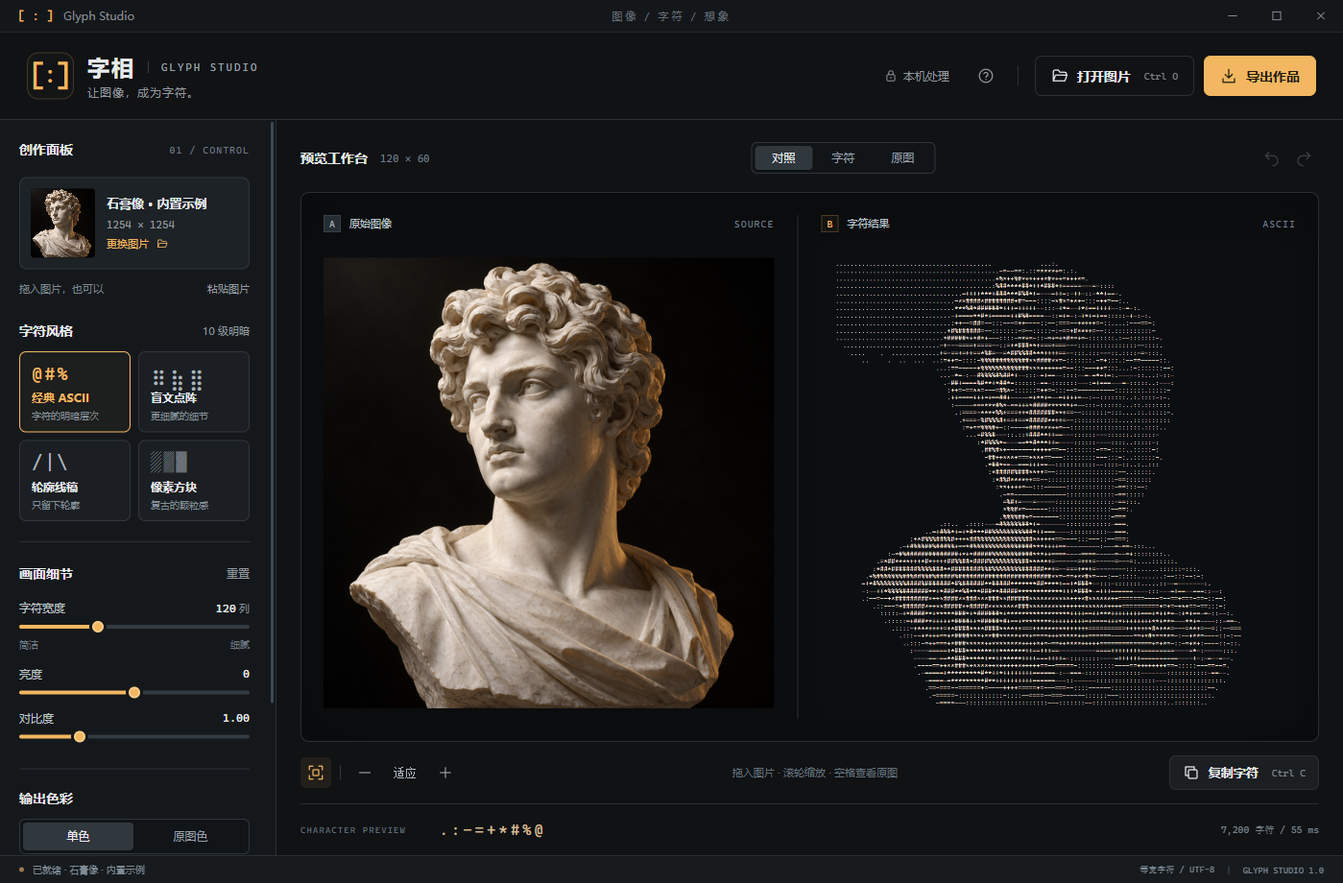
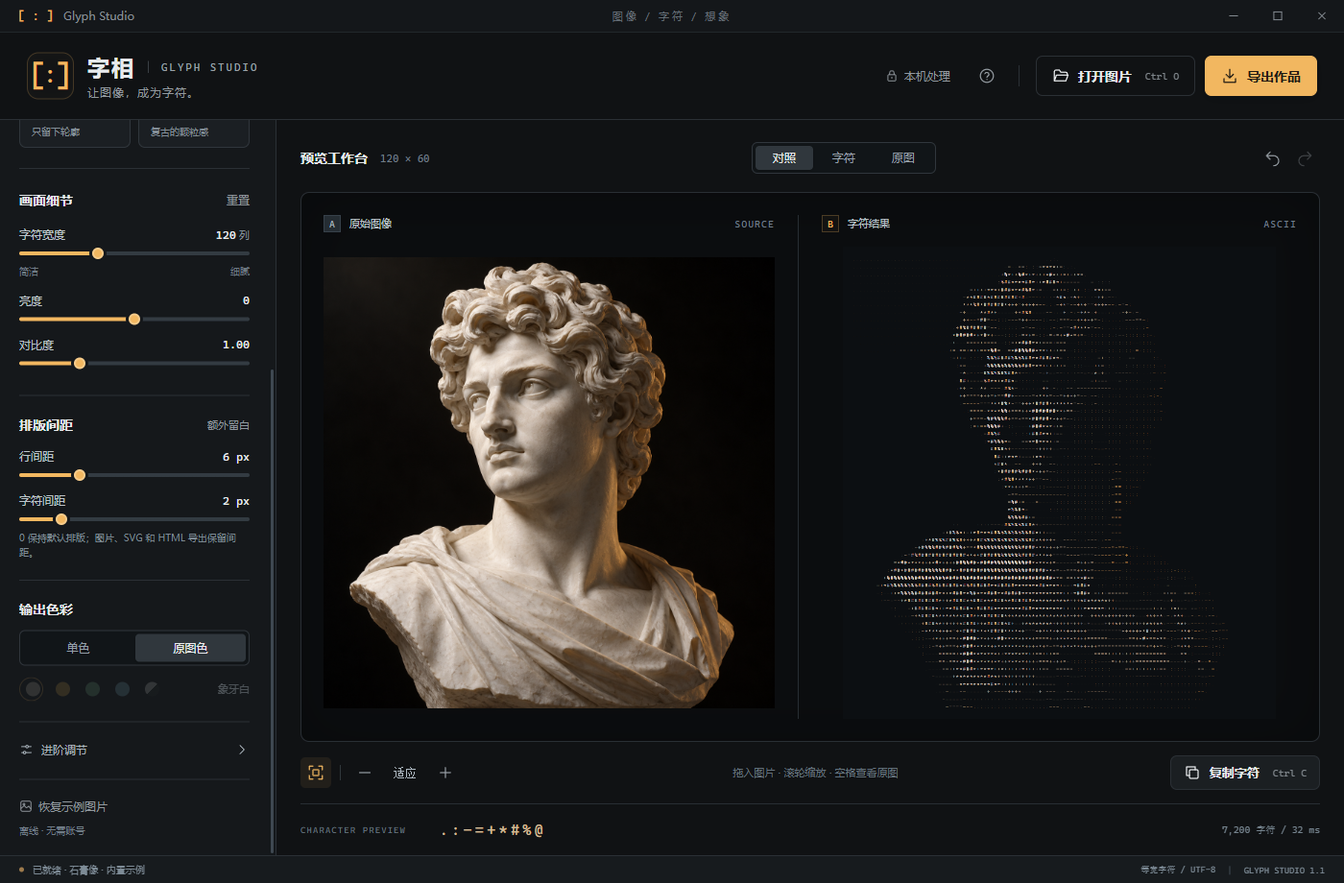
新增排版间距
[skip ci]

diff --git a/src/app.js b/src/app.js
@@ -1,7 +1,7 @@
 (function () {
   'use strict';
   const $ = id => document.getElementById(id);
-  const defaults = { mode: 'ascii', columns: 120, brightness: 0, contrast: 1, gamma: 1, threshold: 0.5, autoContrast: true, dither: false, invert: false, ramp: ' .:-=+*#%@', color: 'mono', palette: 'ivory' };
+  const defaults = { mode: 'ascii', columns: 120, brightness: 0, contrast: 1, gamma: 1, threshold: 0.5, lineSpacing: 0, characterSpacing: 0, autoContrast: true, dither: false, invert: false, ramp: ' .:-=+*#%@', color: 'mono', palette: 'ivory' };
   const modeNames = { ascii: ['经典 ASCII', 'ASCII', '10 级明暗'], braille: ['盲文点阵', 'BRAILLE', '每格 8 个点'], edges: ['轮廓线稿', 'CONTOUR', '方向边缘'], blocks: ['像素方块', 'BLOCKS', '5 级像素'] };
   let settings = { ...defaults };
   try {
@@ -13,6 +13,8 @@
       settings.contrast = Math.max(0.5, Math.min(2.5, settings.contrast));
       settings.gamma = Math.max(0.4, Math.min(2.4, settings.gamma));
       settings.threshold = Math.max(0.1, Math.min(0.9, settings.threshold));
+      settings.lineSpacing = Math.max(0, Math.min(24, Math.round(settings.lineSpacing)));
+      settings.characterSpacing = Math.max(0, Math.min(12, Math.round(settings.characterSpacing)));
       AsciiCore.convert({ width: 1, height: 1, data: new Uint8ClampedArray([0, 0, 0, 255]) }, { ramp: settings.ramp });
     }
   } catch { settings = { ...defaults }; }
@@ -78,7 +80,7 @@
     scheduleRender(0);
   }
   function updateControls() {
-    for (const id of ['columns', 'brightness', 'contrast', 'gamma', 'threshold']) {
+    for (const id of ['columns', 'brightness', 'contrast', 'gamma', 'threshold', 'lineSpacing', 'characterSpacing']) {
       $(id).value = settings[id];
       updateRange(id);
     }
@@ -102,7 +104,7 @@
     const input = $(id);
     const value = Number(input.value);
     input.style.setProperty('--fill', `${(value - Number(input.min)) / (Number(input.max) - Number(input.min)) * 100}%`);
-    $(`${id}-out`).textContent = ['contrast', 'gamma', 'threshold'].includes(id) ? value.toFixed(2) : id === 'brightness' && value > 0 ? `+${value}` : String(value);
+    $(`${id}-out`).textContent = ['contrast', 'gamma', 'threshold'].includes(id) ? value.toFixed(2) : ['lineSpacing', 'characterSpacing'].includes(id) ? `${value} px` : id === 'brightness' && value > 0 ? `+${value}` : String(value);
   }
   function validateRamp() {
     if (settings.mode !== 'ascii') { $('ramp-error').hidden = true; $('ramp').classList.remove('invalid'); return true; }
@@ -307,13 +309,16 @@
   function calculateMetrics(output, fontSize = 14, padding = 28) {
     const measure = document.createElement('canvas').getContext('2d');
     measure.font = `${fontSize}px "Cascadia Mono", "Consolas", "DejaVu Sans Mono", monospace`;
-    let cellWidth = measure.measureText('M').width;
-    let lineHeight = cellWidth * 2;
-    let width = Math.ceil(output.columns * cellWidth + padding * 2);
-    let height = Math.ceil(output.rows * lineHeight + padding * 2);
+    let glyphWidth = measure.measureText('M').width;
+    let characterSpacing = renderedSettings.characterSpacing;
+    let lineSpacing = renderedSettings.lineSpacing;
+    let cellWidth = glyphWidth + characterSpacing;
+    let lineHeight = glyphWidth * 2 + lineSpacing;
+    let width = Math.ceil(output.columns * glyphWidth + (output.columns - 1) * characterSpacing + padding * 2);
+    let height = Math.ceil(output.rows * glyphWidth * 2 + (output.rows - 1) * lineSpacing + padding * 2);
     const limitScale = Math.min(1, 8192 / Math.max(width, height), Math.sqrt(18000000 / (width * height)));
-    if (limitScale < 1) { fontSize *= limitScale; padding *= limitScale; cellWidth *= limitScale; lineHeight *= limitScale; width = Math.ceil(width * limitScale); height = Math.ceil(height * limitScale); }
-    return { fontSize, cellWidth, lineHeight, width, height, padding };
+    if (limitScale < 1) { fontSize *= limitScale; padding *= limitScale; glyphWidth *= limitScale; characterSpacing *= limitScale; lineSpacing *= limitScale; cellWidth *= limitScale; lineHeight *= limitScale; width = Math.ceil(width * limitScale); height = Math.ceil(height * limitScale); }
+    return { fontSize, glyphWidth, characterSpacing, lineSpacing, cellWidth, lineHeight, width, height, padding };
   }
   function paintCanvas(canvas, output, snapshot, metrics) {
     const palette = GlyphExport.getPalette(snapshot);
@@ -332,7 +337,7 @@
         const character = output.characters[index];
         if (character === ' ' || character === '\u2800') continue;
         if (snapshot.color === 'original') ctx.fillStyle = GlyphExport.colorAt(output, index, snapshot);
-        ctx.fillText(character, metrics.padding + x * metrics.cellWidth, baseline, metrics.cellWidth * 1.02);
+        ctx.fillText(character, metrics.padding + x * metrics.cellWidth, baseline, metrics.glyphWidth * 1.02);
       }
     }
   }
@@ -402,7 +407,7 @@
   function updateExportOptions() {
     const format = document.querySelector('input[name=export-format]:checked').value;
     document.querySelectorAll('.export-option').forEach(label => label.classList.toggle('selected', label.querySelector('input').checked));
-    const notes = { txt: '纯文本保存字符和换行，不包含颜色。请用等宽字体查看。', png: `图片大小 ${metric.width} × ${metric.height} 像素，保留当前背景与配色。`, svg: '保留矢量文字和颜色。另一台设备的字体不同，字形可能略有差别。', html: '独立 HTML 文件，无需网络。颜色、字符与换行都会保留。', ansi: '含 ANSI 真彩色控制码。请在支持 UTF-8 和真彩色的终端查看。' };
+    const notes = { txt: '纯文本保存字符和换行，不包含颜色或像素间距。请用等宽字体查看。', png: `图片大小 ${metric.width} × ${metric.height} 像素，保留当前背景与配色。`, svg: '保留矢量文字和颜色。另一台设备的字体不同，字形可能略有差别。', html: '独立 HTML 文件，无需网络。保留颜色、字符、行间距与字符间距。', ansi: '含 ANSI 真彩色控制码，不包含像素间距。请在支持 UTF-8 和真彩色的终端查看。' };
     $('export-note').textContent = notes[format];
   }
   async function saveOutput() {
@@ -435,8 +440,15 @@
     } catch (error) { notify(error.message, true); }
   }
 
-  for (const id of ['columns', 'brightness', 'contrast', 'gamma', 'threshold']) {
-    $(id).addEventListener('input', () => { settings[id] = Number($(id).value); updateRange(id); scheduleRender(); });
+  for (const id of ['columns', 'brightness', 'contrast', 'gamma', 'threshold', 'lineSpacing', 'characterSpacing']) {
+    $(id).addEventListener('input', () => {
+      settings[id] = Number($(id).value);
+      updateRange(id);
+      if (['lineSpacing', 'characterSpacing'].includes(id) && currentReady()) {
+        renderedSettings = { ...renderedSettings, [id]: settings[id] };
+        drawResult();
+      } else scheduleRender();
+    });
     $(id).addEventListener('change', commitHistory);
   }
   for (const [id, key] of [['auto-contrast', 'autoContrast'], ['dither', 'dither'], ['invert', 'invert']]) $(id).addEventListener('change', () => setSettings({ [key]: $(id).checked }));

diff --git a/src/export.js b/src/export.js
@@ -14,25 +14,29 @@
     const offset = index * 3;
     return `#${Array.from(result.colors.slice(offset, offset + 3)).map(v => v.toString(16).padStart(2, '0')).join('')}`;
   }
+  function metricValue(metric, key, fallback) {
+    const value = metric && Number(metric[key]);
+    return Number.isFinite(value) ? value : fallback;
+  }
   function validateResult(result) {
     if (!result || !Number.isInteger(result.columns) || !Number.isInteger(result.rows) || result.columns < 1 || result.rows < 1 || result.characters.length !== result.columns * result.rows || result.colors.length !== result.columns * result.rows * 3) throw new Error('无效的字符结果。');
   }
   function formatSVG(result, settings, metric) {
     validateResult(result);
-    const { width, height, cellWidth, lineHeight, fontSize, padding } = metric;
+    const width = metricValue(metric, 'width', 0);
+    const height = metricValue(metric, 'height', 0);
+    const cellWidth = metricValue(metric, 'cellWidth', metricValue(metric, 'glyphWidth', 0) + metricValue(metric, 'characterSpacing', 0));
+    const lineHeight = metricValue(metric, 'lineHeight', metricValue(metric, 'glyphWidth', 0) * 2 + metricValue(metric, 'lineSpacing', 0));
+    const fontSize = metricValue(metric, 'fontSize', 0);
+    const padding = metricValue(metric, 'padding', 0);
     const palette = getPalette(settings);
     const parts = [`<svg xmlns="http://www.w3.org/2000/svg" width="${width}" height="${height}" viewBox="0 0 ${width} ${height}" role="img"><title>Glyph Studio 字符画</title><rect width="100%" height="100%" fill="${palette.background}"/><g font-family="Cascadia Mono,Consolas,DejaVu Sans Mono,monospace" font-size="${fontSize}" xml:space="preserve">`];
     for (let y = 0; y < result.rows; y++) {
-      if (settings.color !== 'original') {
-        const line = result.characters.slice(y * result.columns, (y + 1) * result.columns).join('');
-        parts.push(`<text x="${padding}" y="${(padding + y * lineHeight + fontSize).toFixed(3)}" textLength="${(result.columns * cellWidth).toFixed(3)}" lengthAdjust="spacingAndGlyphs" fill="${palette.foreground}">${escapeMarkup(line)}</text>`);
-      } else {
-        for (let x = 0; x < result.columns; x++) {
-          const index = y * result.columns + x;
-          const char = result.characters[index];
-          if (char === ' ' || char === '\u2800') continue;
-          parts.push(`<text x="${(padding + x * cellWidth).toFixed(3)}" y="${(padding + y * lineHeight + fontSize).toFixed(3)}" fill="${colorAt(result, index, settings)}">${escapeMarkup(char)}</text>`);
-        }
+      for (let x = 0; x < result.columns; x++) {
+        const index = y * result.columns + x;
+        const char = result.characters[index];
+        if (settings.color === 'original' && (char === ' ' || char === '\u2800')) continue;
+        parts.push(`<text x="${(padding + x * cellWidth).toFixed(3)}" y="${(padding + y * lineHeight + fontSize).toFixed(3)}" fill="${settings.color === 'original' ? colorAt(result, index, settings) : palette.foreground}">${escapeMarkup(char)}</text>`);
       }
     }
     parts.push('</g></svg>');
@@ -57,9 +61,10 @@
         lines.push(line);
       }
     }
-    const font = metric.fontSize;
-    const lineHeight = metric.lineHeight;
-    return `<!doctype html>\n<html lang="zh-CN"><head><meta charset="UTF-8"><meta name="viewport" content="width=device-width, initial-scale=1"><meta http-equiv="Content-Security-Policy" content="default-src 'none'; style-src 'unsafe-inline'"><title>${escapeMarkup(title || 'Glyph Studio 字符画')}</title><style>body{margin:0;padding:32px;background:${palette.background};color:${palette.foreground};overflow:auto}pre{margin:0;font:${font}px/${lineHeight}px "Cascadia Mono","Consolas","DejaVu Sans Mono",monospace;font-variant-ligatures:none;letter-spacing:0;white-space:pre;tab-size:1}</style></head><body><pre>${lines.join('\n')}</pre></body></html>`;
+    const font = metricValue(metric, 'fontSize', 0);
+    const lineHeight = metricValue(metric, 'lineHeight', metricValue(metric, 'glyphWidth', 0) * 2 + metricValue(metric, 'lineSpacing', 0));
+    const characterSpacing = metricValue(metric, 'characterSpacing', 0);
+    return `<!doctype html>\n<html lang="zh-CN"><head><meta charset="UTF-8"><meta name="viewport" content="width=device-width, initial-scale=1"><meta http-equiv="Content-Security-Policy" content="default-src 'none'; style-src 'unsafe-inline'"><title>${escapeMarkup(title || 'Glyph Studio 字符画')}</title><style>body{margin:0;padding:32px;background:${palette.background};color:${palette.foreground};overflow:auto}pre{margin:0;font:${font}px/${lineHeight}px "Cascadia Mono","Consolas","DejaVu Sans Mono",monospace;font-variant-ligatures:none;letter-spacing:${characterSpacing}px;white-space:pre;tab-size:1}</style></head><body><pre>${lines.join('\n')}</pre></body></html>`;
   }
   function formatANSI(result, settings) {
     validateResult(result);

diff --git a/src/index.html b/src/index.html
@@ -78,6 +78,13 @@
         <div class="range-control"><div class="range-label"><label for="contrast">对比度</label><output id="contrast-out">1.00</output></div><input type="range" id="contrast" min="0.5" max="2.5" step="0.05" value="1"></div>
       </section>
 
+      <section class="control-section">
+        <div class="section-heading"><h2>排版间距</h2><span class="help-label">额外留白</span></div>
+        <div class="range-control"><div class="range-label"><label for="lineSpacing">行间距</label><output id="lineSpacing-out">0 px</output></div><input type="range" id="lineSpacing" min="0" max="24" step="1" value="0" aria-describedby="spacing-hint"></div>
+        <div class="range-control"><div class="range-label"><label for="characterSpacing">字符间距</label><output id="characterSpacing-out">0 px</output></div><input type="range" id="characterSpacing" min="0" max="12" step="1" value="0" aria-describedby="spacing-hint"></div>
+        <p id="spacing-hint" class="field-hint">0 保持默认排版；图片、SVG 和 HTML 导出保留间距。</p>
+      </section>
+
       <section class="control-section color-section">
         <div class="section-heading"><h2>输出色彩</h2></div>
         <div class="segmented color-mode" role="group" aria-label="输出色彩"><button data-color="mono" class="active" aria-pressed="true">单色</button><button data-color="original" aria-pressed="false">原图色</button></div>
@@ -131,7 +138,7 @@
     </section>
   </main>
 
-  <footer class="statusbar"><div><span class="status-indicator"></span><span id="status-text">正在加载示例图片</span></div><div><span id="status-font">等宽字符 / UTF-8</span><span class="status-divider">|</span><span>GLYPH STUDIO 1.0</span></div></footer>
+  <footer class="statusbar"><div><span class="status-indicator"></span><span id="status-text">正在加载示例图片</span></div><div><span id="status-font">等宽字符 / UTF-8</span><span class="status-divider">|</span><span>GLYPH STUDIO 1.1</span></div></footer>
   <div id="toast" class="toast" role="status" aria-live="polite" hidden></div>
 
   <dialog id="export-dialog" class="modal export-modal">
@@ -154,7 +161,7 @@
     <div class="shortcut-grid"><span>打开图片<kbd>Ctrl O</kbd></span><span>粘贴图片<kbd>Ctrl V</kbd></span><span>复制字符<kbd>Ctrl C</kbd></span><span>导出作品<kbd>Ctrl S</kbd></span><span>撤销 / 重做<kbd>Ctrl Z / Y</kbd></span><span>适应窗口<kbd>Ctrl 0</kbd></span><span>临时查看原图<kbd>按住空格</kbd></span><span>帮助<kbd>F1</kbd></span></div>
     <div class="help-note"><svg class="icon"><use href="#i-lock"/></svg><p>所有图片都在本机处理，无需联网。动图仅转换第一帧；单次处理一张图片。字符画适合用等宽字体查看，盲文点阵需要支持 Unicode 的字体。</p></div>
     <details class="reference-details"><summary>开源参考与实现说明</summary><p>参考 ascii-image-converter 的点阵与导出体验、aalib.js 的处理流水线，以及 Chafa 的字体比例与抖动思路。转换核心为独立实现，未复制这些项目的代码。</p><p class="reference-url">github.com/TheZoraiz/ascii-image-converter<br>github.com/mir3z/aalib.js<br>github.com/hpjansson/chafa</p></details>
-    <div class="modal-footer"><span class="version-note">字相 · Glyph Studio 1.0.0</span><button id="help-done" class="button primary">开始创作</button></div>
+    <div class="modal-footer"><span class="version-note">字相 · Glyph Studio 1.1.0</span><button id="help-done" class="button primary">开始创作</button></div>
   </dialog>
   <input id="file-input" type="file" accept="image/png,image/jpeg,image/webp,image/bmp,image/gif,image/avif" hidden>
   <script src="core.js"></script>

diff --git a/README.md b/README.md
@@ -9,14 +9,14 @@
 - 四种转换模式：经典 ASCII、盲文点阵、轮廓线稿、像素方块。
 - 五种导出格式：TXT、PNG、SVG、HTML、ANSI。
 - 支持拖放、原生打开图片和剪贴板粘贴；结果实时预览。
-- 可调整字符宽度、亮度、对比度、Gamma、阈值、自动增强、抖动、反转和配色。
+- 可调整字符宽度、亮度、对比度、Gamma、阈值、自动增强、抖动、反转、配色和排版间距。
 - 转换参数保存在本机；导入图片和生成的字符结果不会写入历史文件。
 
 ## 使用便携版
 
 从 [GitHub Releases 下载最新版](https://github.com/BerryFuwawa/glyph-studio/releases/latest)，选择 `.exe` 文件即可运行；同页面提供 `.sha256` 校验文件。
 
-当前版本的构建文件名为 `Glyph-Studio-1.0.0-Windows-x64.exe`。下载后将它放到有写入权限的文件夹并双击运行。便携版不需要安装 Node.js、Python 或其他运行时，也不要求管理员权限；首次启动可能需要几秒钟解压内置运行时到临时目录。
+当前版本的构建文件名为 `Glyph-Studio-1.1.0-Windows-x64.exe`。下载后将它放到有写入权限的文件夹并双击运行。便携版不需要安装 Node.js、Python 或其他运行时，也不要求管理员权限；首次启动可能需要几秒钟解压内置运行时到临时目录。
 
 这是未签名的 Windows 便携程序，Windows Defender SmartScreen 可能显示发布者未知。先确认文件来源和文件哈希（如果维护者同时提供哈希），再在你信任该文件时选择“更多信息”→“仍要运行”。不要为了启动程序而全局关闭 Defender、SmartScreen 或其他系统安全策略；组织策略阻止执行时，请联系管理员或从源码构建。
 
@@ -41,15 +41,17 @@
 
 字符宽度界面范围为 40–280 列；极端长宽比的图片会按输出行数和总字符数上限自动缩小。ASCII 模式显示字符序列输入框；盲文和轮廓模式显示阈值；轮廓和方块模式不使用抖动补偿。
 
+“排版间距”侧栏可以增加字符行之间的行间距（0–24 px）和相邻字符之间的字符间距（0–12 px），两项默认均为 0。画布预览以及 PNG、SVG、HTML 导出会保留这两项视觉间距；复制出的字符字符串、TXT 和 ANSI 导出保持字符与换行不变。
+
 ### 导出格式
 
 | 格式 | 内容 | 适合用途 |
 | --- | --- | --- |
 | TXT | UTF-8 纯文本、固定列宽和换行，无颜色 | 粘贴、编辑、文字素材 |
-| PNG | 当前预览的字符画图片和配色 | 分享、文档插图 |
-| SVG | 矢量文字和配色 | 缩放、排版 |
-| HTML | 可离线打开的独立网页，含字符和颜色 | 浏览器展示 |
-| ANSI | UTF-8 文本与真彩色控制码 | 支持 ANSI 真彩色的终端 |
+| PNG | 当前预览的字符画图片、配色和排版间距 | 分享、文档插图 |
+| SVG | 矢量文字、配色和排版间距 | 缩放、排版 |
+| HTML | 可离线打开的独立网页，含字符、颜色和排版间距 | 浏览器展示 |
+| ANSI | UTF-8 文本与真彩色控制码，不包含像素间距 | 支持 ANSI 真彩色的终端 |
 
 TXT 和 ANSI 建议使用 Cascadia Mono 或 Consolas 等宽字体。SVG/HTML 在不同设备上可能使用不同字体，字形会略有差异；需要保留当前预览外观时请选择 PNG。保存时由 Windows 原生对话框选择目标位置；如果手动输入的扩展名与格式不一致，程序会补上实际格式扩展名。
 
@@ -89,7 +91,7 @@ node scripts/qa-desktop.cjs
 node scripts/qa-browser.cjs
 ```
 
-`scripts/qa-browser.cjs` 使用本机 Chrome；若自动发现失败，可在 PowerShell 中设置 `CHROME_PATH` 后再运行。验证结果和截图写入被忽略的 `qa-results/` 目录。`npm run build` 生成 Windows x64 portable 目标；当前版本产物为 `dist/Glyph-Studio-1.0.0-Windows-x64.exe`。需要验证解包后的应用时，先确保存在 `dist/win-unpacked/Glyph Studio.exe`，再运行 `node scripts/qa-packaged.cjs`。
+`scripts/qa-browser.cjs` 使用本机 Chrome；若自动发现失败，可在 PowerShell 中设置 `CHROME_PATH` 后再运行。验证结果和截图写入被忽略的 `qa-results/` 目录。`npm run build` 生成 Windows x64 portable 目标；当前版本产物为 `dist/Glyph-Studio-1.1.0-Windows-x64.exe`。需要验证解包后的应用时，先确保存在 `dist/win-unpacked/Glyph Studio.exe`，再运行 `node scripts/qa-packaged.cjs`。
 
 代码结构、测试分层和安全边界见[架构说明](docs/architecture.md)与[开发指南](docs/development.md)。
 
@@ -111,6 +113,7 @@ package.json          依赖与构建配置
 - [开发指南](docs/development.md)：安装、测试、调试和打包。
 - [常见问题](docs/faq.md)：字体、限制、SmartScreen 和离线行为。
 - [发布流程](docs/releasing.md)：维护者可选的检查与 GitHub CLI 流程。
+- [1.1.0 发布说明](docs/release-1.1.0.md)：本版本亮点、下载文件和已知限制。
 - [贡献指南](.github/CONTRIBUTING.md)
 - [安全政策](.github/SECURITY.md)
 - [更新日志](docs/CHANGELOG.md)

diff --git a/docs/user-guide.md b/docs/user-guide.md
@@ -30,10 +30,14 @@
 | 控件 | 作用 |
 | --- | --- |
 | 字符宽度 | 调整输出列数；宽度越大，细节越多，计算和导出内容也越大 |
+| 行间距 | 在字符行之间增加 0–24 px 的额外留白；默认值为 0 |
+| 字符间距 | 在相邻字符之间增加 0–12 px 的额外留白；默认值为 0 |
 | 亮度 | 在映射前整体提亮或压暗 |
 | 对比度 | 拉开或压缩明暗差异 |
 | 输出色彩 | 选择单色配色或按原图颜色着色 |
 | 配色 | 单色模式下选择象牙白、琥珀、终端绿、冰蓝或白纸黑字 |
+
+“排版间距”侧栏中的两项以像素为单位实时更新画布预览，0 表示保持默认排版。PNG、SVG 和 HTML 导出会跟随画布的行间距和字符间距；这些间距只影响视觉布局，不会插入字符或换行。调整完成后，间距设置与其他参数一样保存到本机，并进入参数历史，可用 `Ctrl+Z` / `Ctrl+Y` 撤销或重做；点击“重置”会恢复两项的默认值 0。
 
 “高级调整”提供自动增强对比度、抖动补偿、反转明暗和 Gamma。阈值只在盲文点阵或轮廓线稿中显示；抖动在轮廓线稿和像素方块中不可用。参数历史支持 `Ctrl+Z` / `Ctrl+Y`，最多保留最近 60 个参数状态。
 
@@ -43,16 +47,16 @@
 
 “复制字符”复制的是带换行的字符字符串，而不是预览画布的截图。导出窗口提供：
 
-- **TXT**：只含字符和换行，不含颜色；
-- **PNG**：保留当前预览的背景、配色和字体测量结果；
-- **SVG**：以文字元素保存，适合缩放和排版；
-- **HTML**：独立文件，包含内联样式，浏览器离线即可打开；
-- **ANSI**：每行带真彩色控制码，需在支持 UTF-8 和真彩色的终端中查看。
+- **TXT**：只含字符和换行，不含颜色或像素间距；
+- **PNG**：保留当前预览的背景、配色、字体测量结果和排版间距；
+- **SVG**：以文字元素保存，适合缩放和排版，并保留行间距和字符间距；
+- **HTML**：独立文件，包含内联样式，浏览器离线即可打开，并保留行间距和字符间距；
+- **ANSI**：每行带真彩色控制码，需在支持 UTF-8 和真彩色的终端中查看；字符字符串不包含像素间距。
 
-PNG 还可以从导出窗口复制到剪贴板。保存路径由 Windows 原生保存对话框决定，覆盖已有文件时会询问。若选择的文件名没有当前格式的扩展名，程序会自动追加正确扩展名。
+“复制字符”与 TXT 导出的内容相同，只包含字符和换行，不会把排版间距编码进字符串。导出窗口会在 TXT 和 ANSI 选项的说明中提示这一点；需要保留当前预览的像素间距时，请选择 PNG、SVG 或 HTML。PNG 还可以从导出窗口复制到剪贴板。保存路径由 Windows 原生保存对话框决定，覆盖已有文件时会询问。若选择的文件名没有当前格式的扩展名，程序会自动追加正确扩展名。
 
 ## 5. 数据和隐私
 
-图片解码、采样、字符转换和导出都在本机进行。程序没有账号、遥测、云端上传或后台网络服务；主程序还会拒绝普通 HTTP、HTTPS 和 WebSocket 请求。转换参数保存在 Electron 的本机存储中，导入图片、原图像素和字符结果只在当前运行期间保留。
+图片解码、采样、字符转换和导出都在本机进行。程序没有账号、遥测、云端上传或后台网络服务；主程序还会拒绝普通 HTTP、HTTPS 和 WebSocket 请求。转换参数（包括行间距和字符间距）保存在 Electron 的本机存储中，导入图片、原图像素和字符结果只在当前运行期间保留。
 
 退出后重新打开会恢复上次参数，并重新载入内置示例；不会恢复上次导入的图片或字符结果。

diff --git a/docs/faq.md b/docs/faq.md
@@ -22,7 +22,7 @@
 
 ## GIF 或 WebP 动图可以导出动画吗？
 
-不能。当前实现只读取第一帧，所有导出格式都是单张静态字符画。视频转换、动画导出和批量处理不在 1.0.0 范围内。
+不能。当前实现只读取第一帧，所有导出格式都是单张静态字符画。视频转换、动画导出和批量处理不在 1.1.0 范围内。
 
 ## 盲文点阵显示成方框怎么办？
 
@@ -30,7 +30,15 @@
 
 ## 为什么 TXT 看起来错位？
 
-字符画依赖等宽字体和约 1:2 的字符宽高比例。请使用 Cascadia Mono、Consolas 或其他等宽字体，并关闭会改变字距的排版选项。盲文点阵还需要支持 Braille 字形。
+字符画依赖等宽字体和约 1:2 的字符宽高比例。请使用 Cascadia Mono、Consolas 或其他等宽字体，并关闭查看器中会改变字距的排版选项。应用的“字符间距”只作用于画布以及 PNG、SVG、HTML 的视觉布局，不会写入 TXT 字符串。盲文点阵还需要支持 Braille 字形。
+
+## “排版间距”中的行间距和字符间距怎么用？
+
+“排版间距”侧栏提供行间距 0–24 px 和字符间距 0–12 px，两项默认都是 0。它们会实时影响画布预览，并由 PNG、SVG、HTML 导出保留；设置会保存到本机，也支持撤销、重做和“重置”。间距是视觉布局参数，不会改变字符结果本身。
+
+## 为什么 TXT 或 ANSI 没有我设置的像素间距？
+
+TXT 和 ANSI 保存的是字符字符串及换行（ANSI 另外包含颜色控制码），没有像素画布，因而不会携带行间距或字符间距。导出窗口会在这两种格式的说明中提示这一限制；需要保留像素间距时请选择 PNG、SVG 或 HTML。
 
 ## “原图色”和单色配色有什么区别？
 
@@ -46,4 +54,4 @@
 
 ## 支持哪些 Windows 架构？
 
-官方打包目标是 Windows x64。其他架构和旧版 Windows 没有在当前 1.0.0 交付范围内验证；可以从源码尝试，但需要自行处理 Electron 和图形环境兼容性。
+官方打包目标是 Windows x64。其他架构和旧版 Windows 没有在当前 1.1.0 交付范围内验证；可以从源码尝试，但需要自行处理 Electron 和图形环境兼容性。

diff --git a/docs/release-1.1.0.md b/docs/release-1.1.0.md
@@ -1,0 +1,30 @@
+# 字相 · Glyph Studio 1.1.0
+
+字相将图片转换为可以复制、编辑和分享的字符画。Windows 便携版无需安装，图片处理与导出均在本机完成。
+
+## 亮点
+
+- 新增“排版间距”侧栏：行间距 0–24 px、字符间距 0–12 px，默认均为 0。
+- 画布预览以及 PNG、SVG、HTML 导出保留当前排版间距；设置会持久化，并支持撤销、重做和重置。
+- “复制字符”、TXT 和 ANSI 保持字符字符串与换行不变，不携带像素间距；导出窗口会明确提示这一点。
+- 延续四种转换模式、五种导出格式、拖放/打开/剪贴板导入和本机离线处理。
+
+## 下载文件
+
+本版本提供：
+
+- `Glyph-Studio-1.1.0-Windows-x64.exe`
+- `Glyph-Studio-1.1.0-Windows-x64.exe.sha256`
+
+下载后可用 Windows PowerShell 验证哈希：
+
+```powershell
+Get-FileHash .\Glyph-Studio-1.1.0-Windows-x64.exe -Algorithm SHA256
+```
+
+## 已知限制
+
+- 官方目标为 Windows 10/11 x64 portable；便携版未配置代码签名，Windows SmartScreen 可能显示发布者未知。请核对来源和 `.sha256` 后再决定是否运行，不要全局关闭系统安全功能。
+- 动图只转换第一帧；不提供视频、动画导出或批量处理。
+- 参与转换的图像最长边最多 1,600 像素；输出最多 600 行、180,000 个字符格。
+- 跨设备查看 SVG/HTML/TXT/ANSI 时，字体和终端能力可能改变字形或颜色表现。

diff --git a/docs/CHANGELOG.md b/docs/CHANGELOG.md
@@ -2,6 +2,22 @@
 
 本文件记录源码和构建行为，不代表某个版本已经在 GitHub 或其他渠道公开发布。
 
+## 1.1.0 — 2026-10-03
+
+### 新增
+
+- 新增“排版间距”侧栏：行间距可设为 0–24 px，字符间距可设为 0–12 px，两项默认均为 0。
+- 画布预览以及 PNG、SVG、HTML 导出会跟随当前行间距和字符间距。
+- 排版间距与其他转换参数一样持久化，并支持撤销、重做和重置。
+- TXT、ANSI 和“复制字符”保持原字符字符串与换行不变，不携带像素间距；导出窗口会提示该行为。
+
+### 已知范围
+
+- 动图仍只转换第一帧；不提供视频、动画导出或批量处理。
+- 输出仍受最长边采样、600 行和 180,000 字符格限制。
+- 便携版仍未配置代码签名，Windows 可能显示 SmartScreen 警告。
+- 跨设备查看 SVG/HTML/TXT/ANSI 时，字体和终端能力可能改变字形或颜色表现。
+
 ## 1.0.0 — 2026-10-02
 
 ### 新增

diff --git a/docs/development.md b/docs/development.md
@@ -59,6 +59,14 @@ node scripts/qa-browser.cjs
 
 ## 打包
 
+排版间距的桌面检查：
+
+```powershell
+node scripts/qa-spacing.cjs
+```
+
+覆盖滑块与画布尺寸、PNG 尺寸、TXT/ANSI 字符不变、参数记忆、撤销重做、模式切换和旧设置兼容。
+
 ```powershell
 npm run build
 ```
